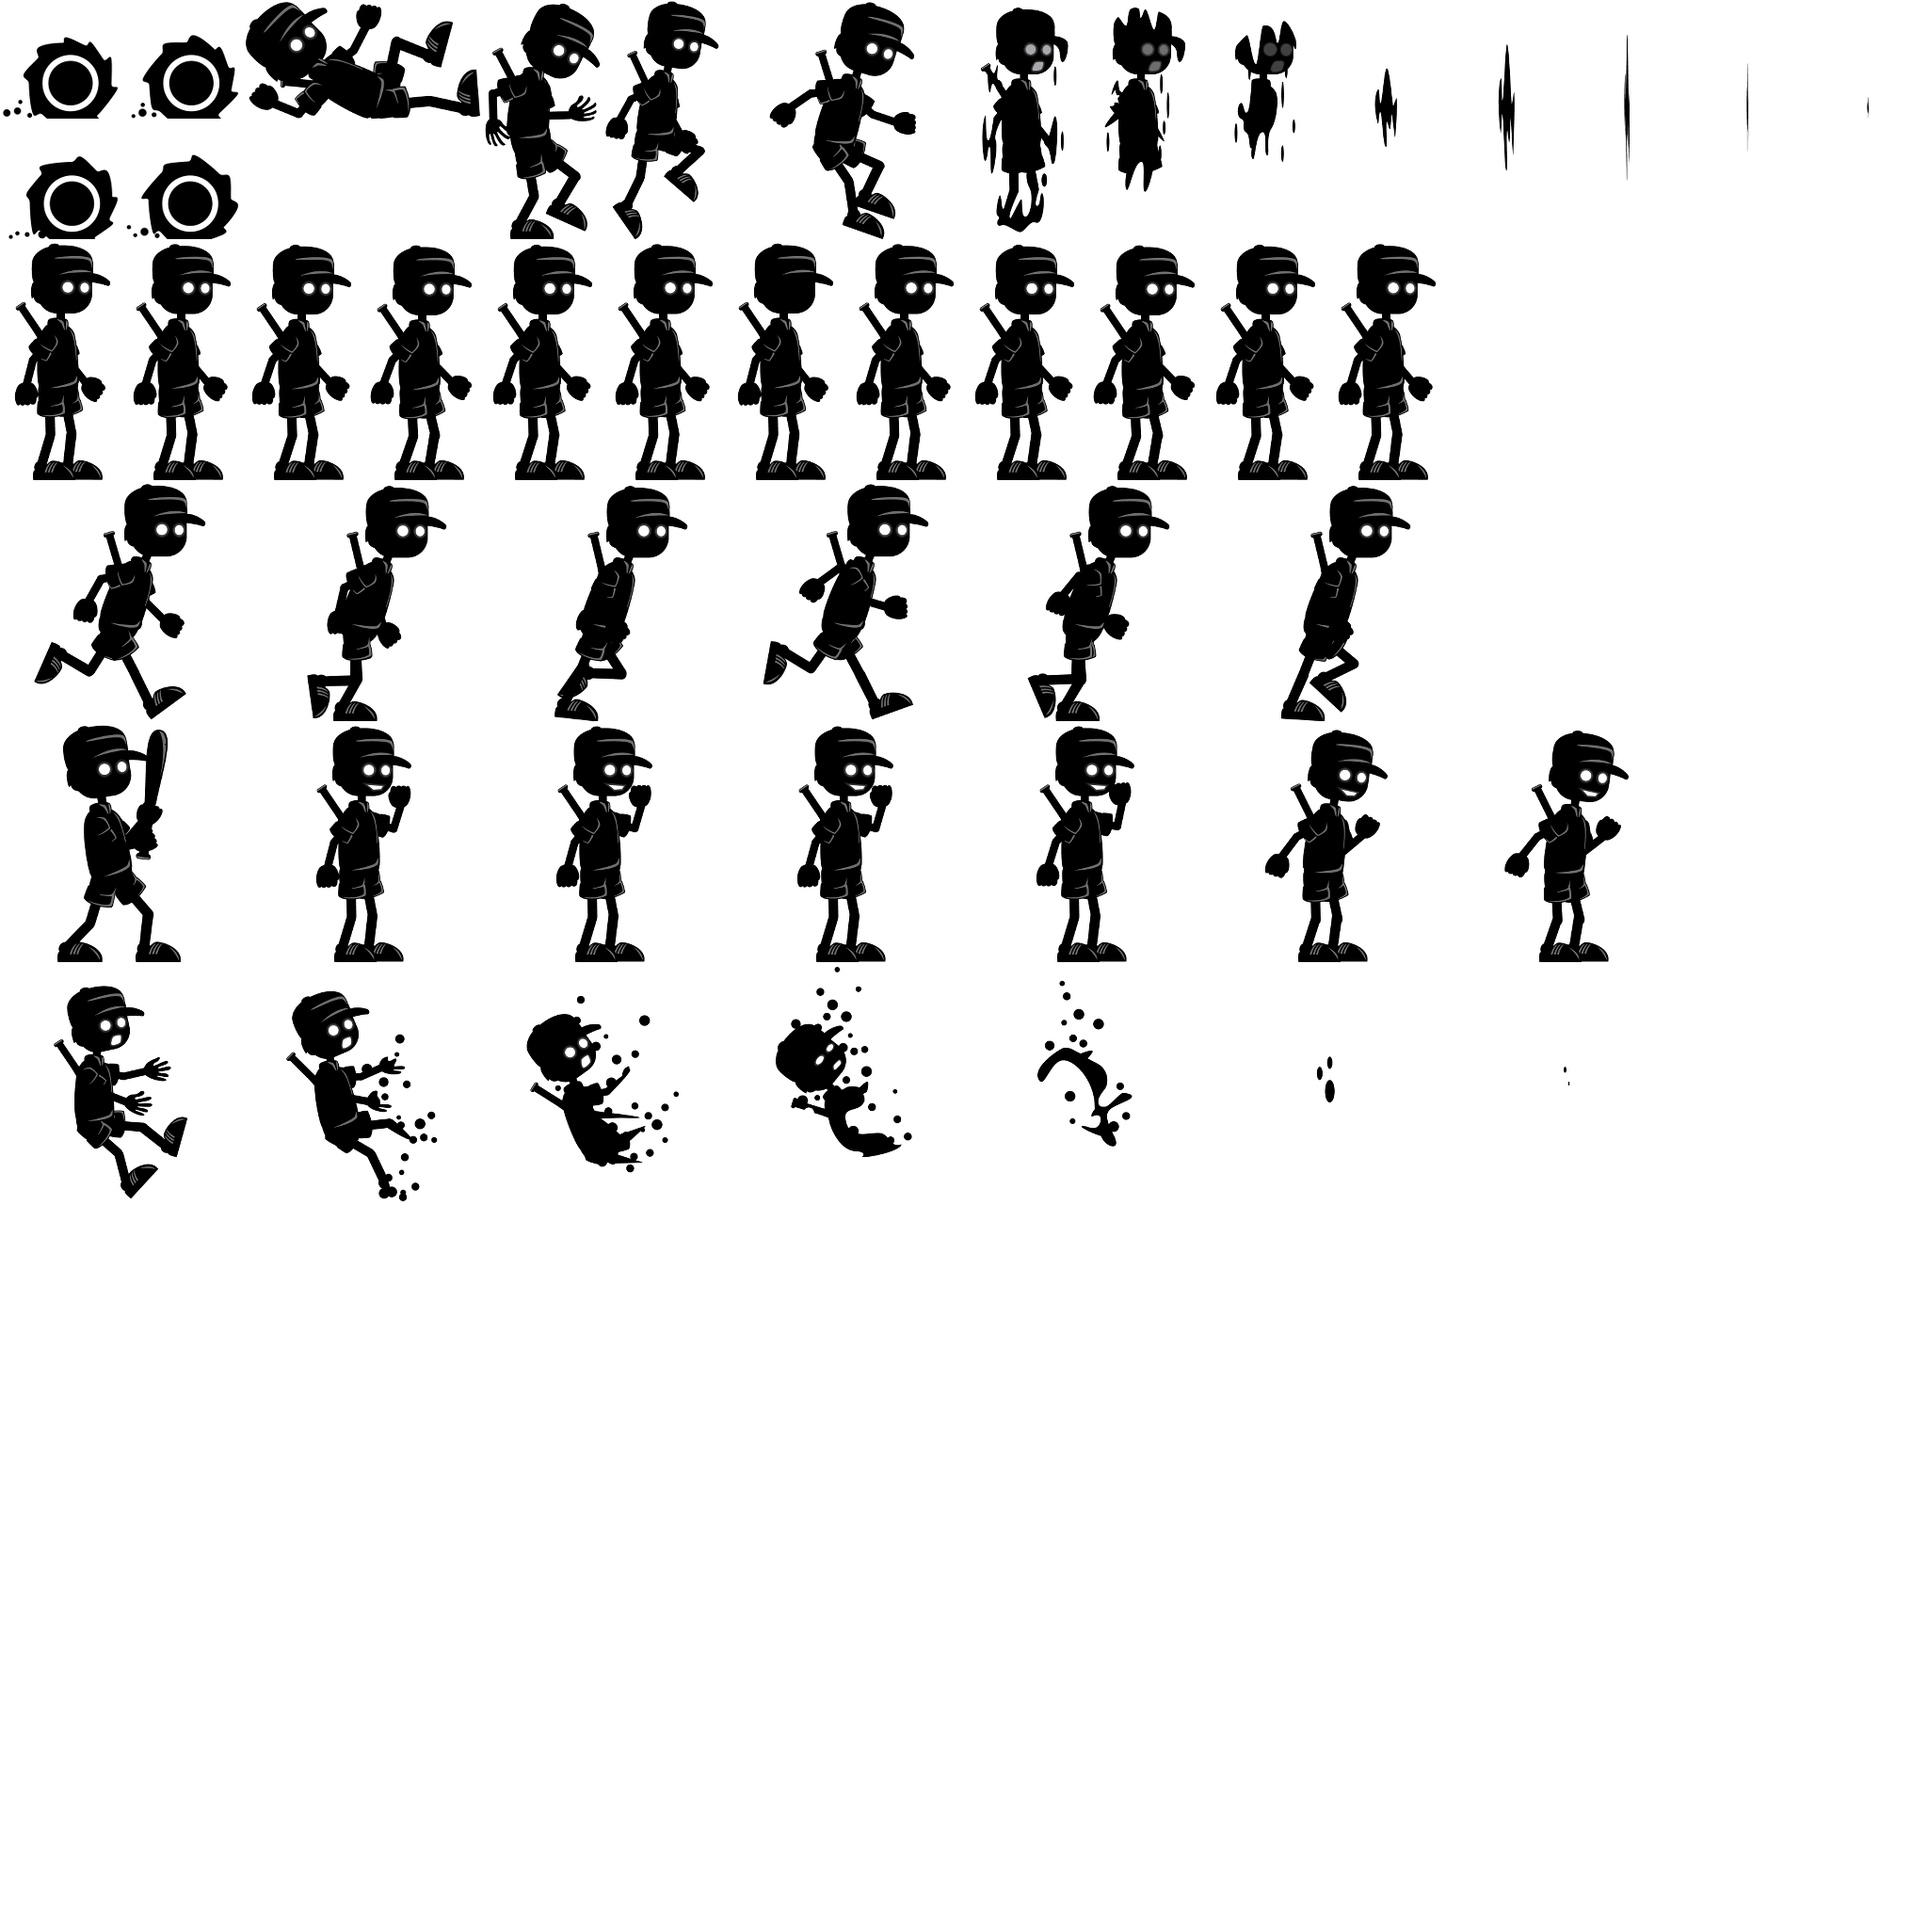
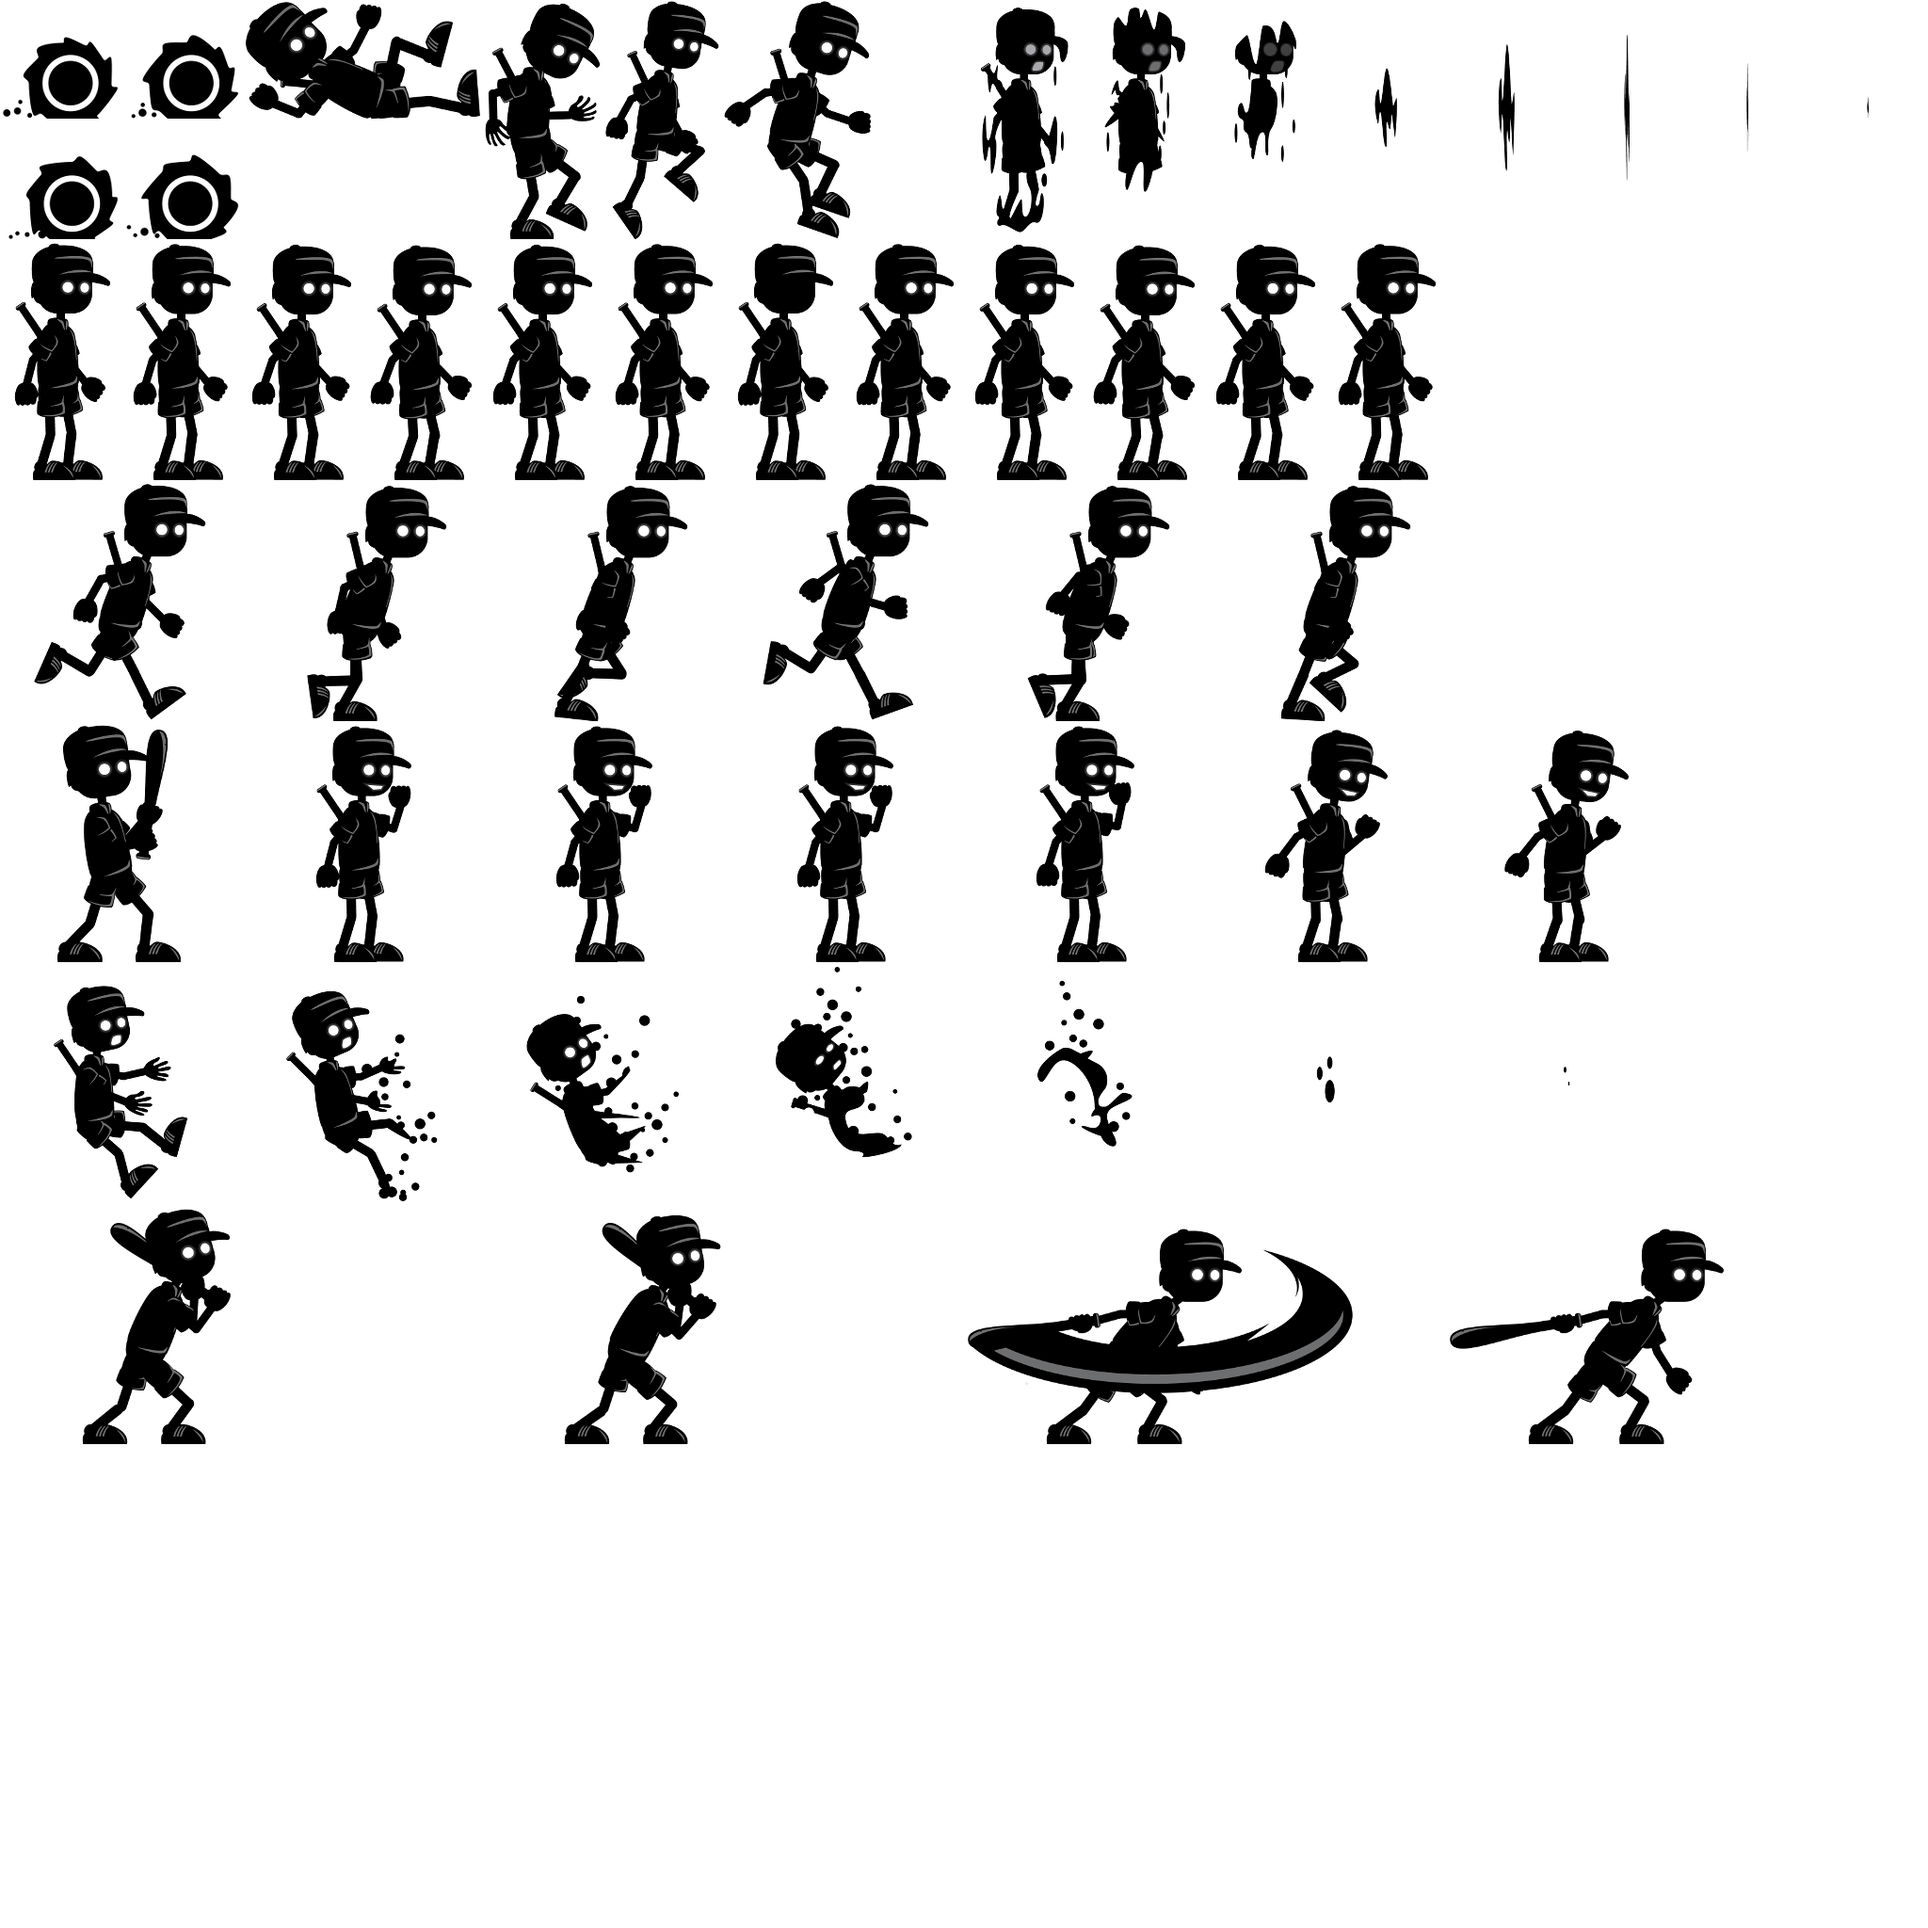
Added mario's horizontal attack

diff --git a/Game Engine/Mario.h b/Game Engine/Mario.h
@@ -37,14 +37,21 @@ namespace marioNS
 	const int JUMP_UP_TEXTURE_COLS = 6;
 	const int JUMP_UP_MARIO_START_FRAME = 5;
 	const int JUMP_UP_MARIO_END_FRAME = 4;
-	const float JUMP_UP_ANIMATION_DELAY = 1.0f;
+	const float JUMP_UP_ANIMATION_DELAY = 0.1f;
 
 	const int JUMP_FALL_IMAGE_WIDTH = 256;
 	const int JUMP_FALL_IMAGE_HEIGHT = 256;
 	const int JUMP_FALL_TEXTURE_COLS = 4;
 	const int JUMP_FALL_MARIO_START_FRAME = 3;
 	const int JUMP_FALL_MARIO_END_FRAME = 3;
-	const float JUMP_FALL_ANIMATION_DELAY = 1.0f;
+	const float JUMP_FALL_ANIMATION_DELAY = 0.1f;
+
+	const int HORIZONTAL_ATTACK_IMAGE_WIDTH = 512;
+	const int HORIZONTAL_ATTACK_IMAGE_HEIGHT = 256;
+	const int HORIZONTAL_ATTACK_TEXTURE_COLS = 4;
+	const int HORIZONTAL_ATTACK_START_FRAME = 20;
+	const int HORIZONTAL_ATTACK_END_FRAME = 23;
+	const float HORIZONTAL_ATTACK_ANIMATION_DELAY = 0.1f;
 
 	//Collision RECTS      left, top, right, bottom
 	const RECT IDLE_RECT = {-40, -128, 40, 128};
@@ -60,6 +67,7 @@ namespace marioNS
 		WALKING,
 		ROLLING,
 		JUMPING,
+		HORIZONTAL_ATTACK
 	};
 
 	enum Direction
@@ -79,6 +87,7 @@ private:
 	Image marioRolling_;
 	Image marioJumpUp_;
 	Image marioJumpFall_;
+	Image horizontalAttack_;
 
 public:
 	// constructor

diff --git a/Game Engine/Mario.cpp b/Game Engine/Mario.cpp
@@ -60,6 +60,12 @@ bool Mario::initialize(Game *gamePtr, int width, int height, int ncols,
 	marioJumpFall_.setCurrentFrame(marioNS::JUMP_FALL_MARIO_START_FRAME);
 	marioJumpFall_.setFrameDelay(marioNS::JUMP_FALL_ANIMATION_DELAY);
 
+	horizontalAttack_.initialize(gamePtr->getGraphics(), marioNS::HORIZONTAL_ATTACK_IMAGE_WIDTH,
+		marioNS::HORIZONTAL_ATTACK_IMAGE_HEIGHT, marioNS::HORIZONTAL_ATTACK_TEXTURE_COLS, textureM);
+	horizontalAttack_.setFrames(marioNS::HORIZONTAL_ATTACK_START_FRAME, marioNS::HORIZONTAL_ATTACK_END_FRAME);
+	horizontalAttack_.setCurrentFrame(marioNS::HORIZONTAL_ATTACK_START_FRAME);
+	horizontalAttack_.setFrameDelay(marioNS::HORIZONTAL_ATTACK_ANIMATION_DELAY);
+
 	return(Entity::initialize(gamePtr, width, height, ncols, textureM));
 }
 
@@ -165,6 +171,10 @@ void Mario::draw()
 			marioJumpUp_.draw(spriteData);
 		else
 			marioJumpFall_.draw(spriteData);
+	}
+	else if (state_ == marioNS::HORIZONTAL_ATTACK)
+	{
+		horizontalAttack_.draw(spriteData);
 	}
 	else
 	{

diff --git a/Game Engine/constants.h b/Game Engine/constants.h
@@ -19,8 +19,8 @@ const char BACKGROUND_IMAGE[] = "pictures\\background.png";
 const char BACKGROUND_LAYER1[] = "pictures\\layer-1-sky.png";
 const char BACKGROUND_LAYER2[] = "pictures\\layer-2-ghosts.png";
 const char GROUND_IMAGE[] = "pictures\\layer-3-ground_125X509.png";
-const char MARIO_IMAGE[]	= "pictures\\RedHeadBoy.png"; 
 const char DARK_MARIO_IMAGE[] = "pictures\\DarkMario_2048x2048.png";
+const char MARIO_ATTACK_IMAGE[] = "pictures\\Attacks_1024x2048.png";
 const char PLATFORM_IMAGE[] = "pictures\\Platform.png";
 const char VILLAINS_IMAGE[] = "pictures\\Villains.png";
 

diff --git a/Game Engine/World.cpp b/Game Engine/World.cpp
@@ -74,6 +74,10 @@ void World::update()      // must override pure virtual from Game
 		mario_.setState(marioNS::JUMPING);
 		mario_.setEdge(marioNS::JUMP_UP_RECT);
 	}
+	else if (input->isKeyDown(ALT_KEY))
+	{
+		mario_.setState(marioNS::HORIZONTAL_ATTACK);
+	}
 	else
 	{
 		mario_.setState(marioNS::IDLEING);
